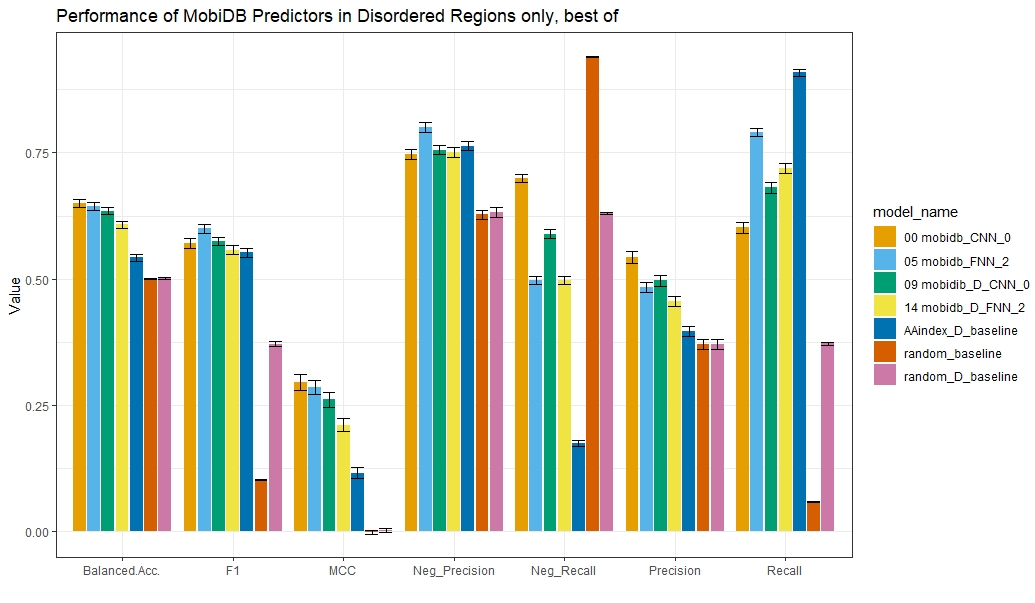
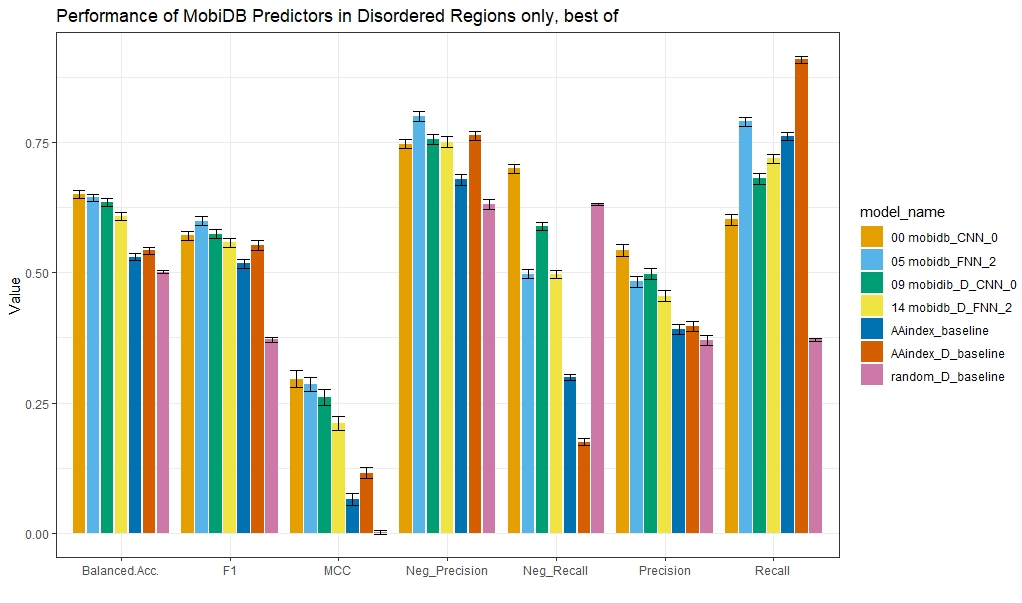
performance assessment reworked

diff --git a/src/performance_assessment.py b/src/performance_assessment.py
@@ -166,7 +166,8 @@ class CNN(nn.Module):
         padding = int((kernel_size - 1) / 2)
         in_c_dict = {'all': 1025,
                      'disorder_only': 1024,
-                     'aaindex': 566}
+                     'aaindex': 567,
+                     'aaindex_D': 566}
         in_c = in_c_dict[mode]
         if self.n_layers == 2:
             # version 0: 2 C layers
@@ -909,7 +910,7 @@ def assess_deepdisobind(dataset_dir, test_batch_size, validation):
 
 if __name__ == '__main__':
     # read input embeddings
-    test = False
+    test = True
     validation = "disorder_only"    # if disorder_only, the batches are formed after excluding structured regions
     embeddings_in = '../dataset/MobiDB_dataset/test_set.h5' if test else '../dataset/MobiDB_dataset/train_set.h5'
     embeddings = dict()
@@ -983,9 +984,9 @@ if __name__ == '__main__':
 
     # mobidb code
     dataset_dir = '../dataset/MobiDB_dataset/'
-    variants = [0.0, 0.1, 0.2, 1.0, 1.1, 1.2, 1.3, 1.4, 1.5, 2.0, 2.0005, 2.001, 2.02, 2.03, 2.06, 2.07, 2.08, 2.1, 2.2, 3.0, 3.1, 3.2, 3.3, 3.4, 10.0, 12.0, 22.0]
-    #variants = [1.0]
-    assessment_name = "mobidb_new_balancing"      # "mobidb" / "2.21_only" / ""
+    variants = [0.0, 0.1, 0.2, 1.0, 1.1, 1.2, 1.3, 1.4, 1.5, 2.0, 2.0005, 2.001, 2.02, 2.03, 2.06, 2.07, 2.08, 2.1, 2.2, 3.0, 3.1, 3.2, 3.3, 3.4, 10.0, 12.0, 20.0, 22.0]
+    #variants = [20.0, 22.0]
+    assessment_name = "mobidb_all_new"      # "mobidb" / "2.21_only" / ""
     test_batch_size = 100    # n AAs, or None --> 1 protein
     # cutoffs are different for each fold and variant
     cutoffs = {0.0: [0.35, 0.3, 0.3, 0.15, 0.4],
@@ -1014,8 +1015,8 @@ if __name__ == '__main__':
                3.4: [0.6, 0.55, 0.55, 0.5, 0.5],
                10.0: [0.94, 0.94, 0.94, 0.94, 0.94],
                12.0: [0.63, 0.63, 0.63, 0.63, 0.63],
-               22.0: [0.25, 0.2, 0.25, 0.25, 0.25],
-               23.0: [0.1, 0.1, 0.15, 0.1, 0.1]
+               20.0: [0.1, 0.1, 0.15, 0.1, 0.1],
+               22.0: [0.25, 0.2, 0.25, 0.25, 0.25]
                }
     names = {0.0: "mobidb_CNN_0",   # 1: currently best model
              0.1: "mobidb_CNN_1",
@@ -1043,8 +1044,8 @@ if __name__ == '__main__':
              3.4: "mobidb_D_FNN_4",
              10.0: "random_binary",
              12.0: "random_D_only",
-             22.0: "AAindex_D_baseline",    # based on mobidb_D_CNN_0
-             23.0: "AAindex_baseline"   # based on mobidb_CNN_0
+             20.0: "AAindex_baseline",  # based on mobidb_CNN_0
+             22.0: "AAindex_D_baseline"    # based on mobidb_D_CNN_0
              }
 
     best_folds = {0.0: 2,
@@ -1073,8 +1074,8 @@ if __name__ == '__main__':
                   3.4: 0,
                   10.0: 2,
                   12.0: 2,
-                  22.0: 1,
-                  23.0: 4
+                  20.0: 4,
+                  22.0: 1
                   }
 
 
